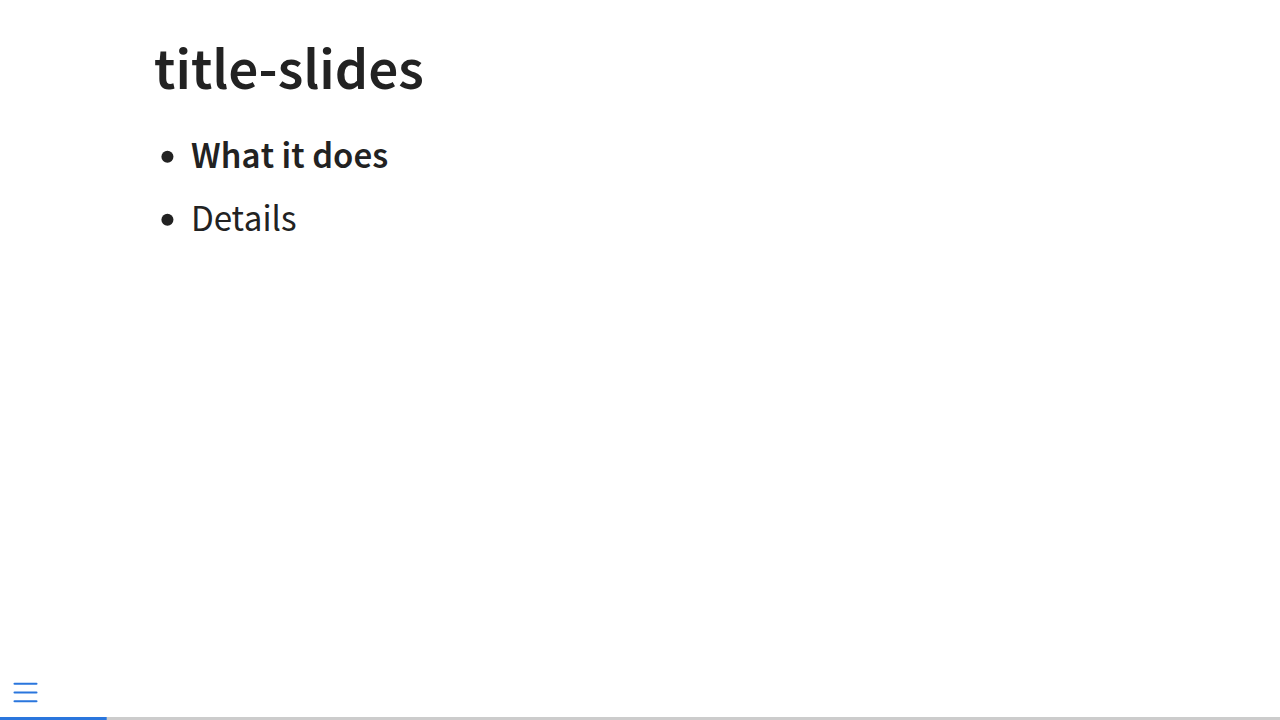
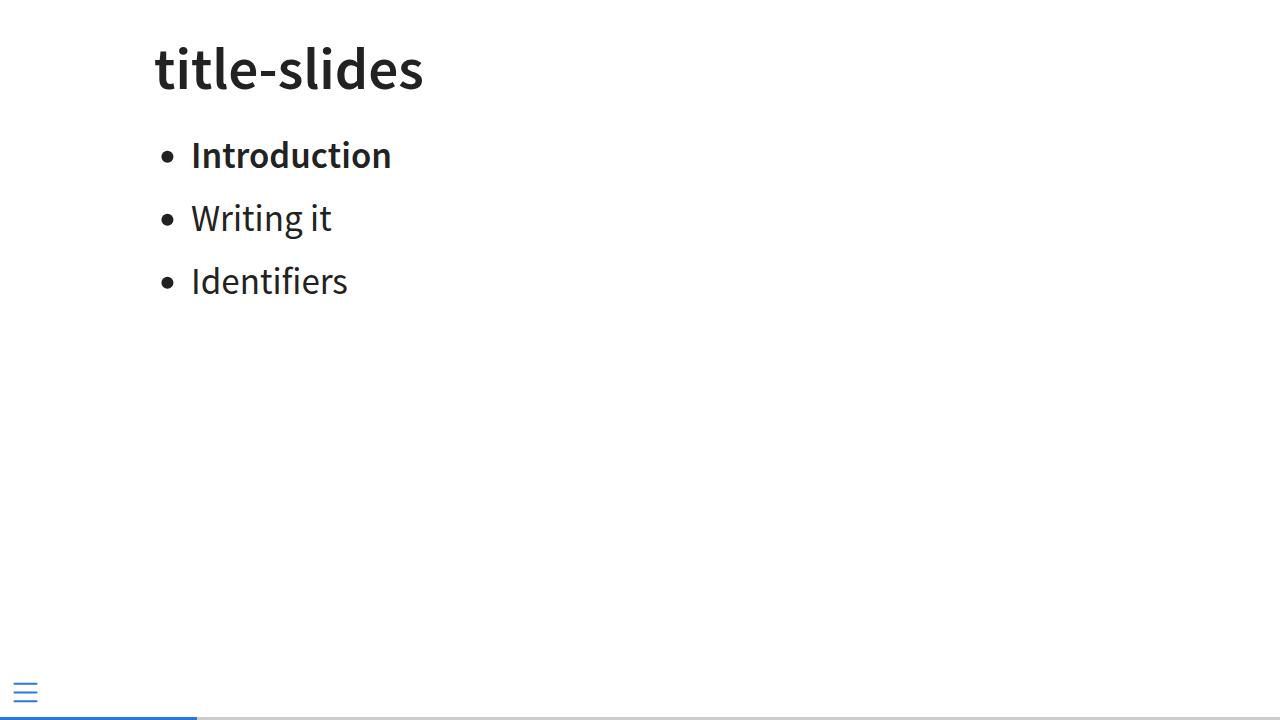
Document the ## index rule, reshoot the screenshots, bump to 0.5.0
The README's index section, worked example and rule now describe indexing the
headings that start slides, including the collapsing of repeated adjacent titles
and the reservation of # for the title slide. It says plainly that this doubles
the length of a deck, so slide-number: c/t totals move.

The troubleshooting entry that told people a deck of ## slides has no sections is
replaced by what 0.5 actually does, keeping the version check for anyone still on
an older install.

The vertical-stack caveat is rewritten rather than kept: with the index at the
same level as the slide it introduces, it now lands inside that slide's own stack
immediately before it, instead of at the end of the previous section's. Checked
against a rendered deck with # headings.

Screenshots regenerated from the example deck, which now shows three index slides
for its three ## headings and none for its two # ones.

diff --git a/README.md b/README.md
@@ -8,7 +8,7 @@ Two habits from beamer, brought to a Quarto deck:
 The two are independent — switch on either, or both.
 
 ```sh
-quarto add gortazar/title-slides@v0.4
+quarto add gortazar/title-slides@v0.5
 ```
 
 ## Carried titles
@@ -71,12 +71,11 @@ The same slide of the same deck with the extension switched off:
 
 ![The same slide, with no title at all](screenshots/without-title-slides.png)
 
-## An index before every section
+## An index before every slide
 
-`show-index: true` puts an index slide in front of each of the deck's sections — the
-`#` headings Quarto renders as section slides. Every index lists every section, and
-emboldens the one it introduces, so the audience always knows where the deck is and
-where it is going. This is beamer's `\AtBeginSection` habit.
+`show-index: true` puts an index slide in front of each of the deck's slides, listing the
+deck's `##` titles and emboldening the one it introduces, so the audience always knows
+where the deck is and where it is going. This is beamer's `\AtBeginSection` habit.
 
 ````markdown
 ---
@@ -87,24 +86,20 @@ filters:
 show-index: true
 ---
 
-# Beginnings
-
-## First slide
+## Beginnings
 
 ...
 
-# Middles
-
-## Second slide
+## Middles
 
 ...
 ````
 
-Before `# Beginnings` and again before `# Middles`, you get:
+Before `## Beginnings` and again before `## Middles`, you get:
 
-![An index slide with the first section in bold](screenshots/index-first-section.png)
+![An index slide with the first slide title in bold](screenshots/index-first-section.png)
 
-![The same index, with the next section in bold instead](screenshots/index-second-section.png)
+![The same index, with the next slide title in bold instead](screenshots/index-second-section.png)
 
 ## Usage
 
@@ -149,23 +144,35 @@ Attributes written on the original heading — `## Intro {.smaller background-co
 
 ## The index rule, exactly
 
-A **section** is a top-level heading *below* the slide level — `#` by default, which is
-what Quarto renders as a section slide. Before each one, the filter inserts a heading at
-the slide level followed by a bullet list of every section in the deck.
+**The index lists the headings that start slides** — `##` at Quarto's default slide level.
+Before each one, the filter inserts a heading at the slide level followed by a bullet list
+of the deck's titles.
 
-- **The heading** is the document's own `title:`, or `Outline` if it has none.
-- **Every section is listed**, in document order — not just the ones still to come — so
+- **`#` is reserved for the title slide.** A level-1 heading is never listed and never gets
+  an index slide in front of it, so a deck's title page and its `#` dividers are left
+  exactly as written.
+- **The heading** of the index is the document's own `title:`, or `Outline` if it has none.
+- **Every slide title is listed**, in document order — not just the ones still to come — so
   the same list appears each time with the emphasis in a different place.
-- **The entry for the section that follows** is wrapped in `Strong` *and* in a span with
-  the class `title-slides-index-current`, so it is emphasised in any renderer and can be
+- **Repeated adjacent titles are listed once.** A topic continued across three slides
+  under the same `##` gets one entry, emphasised for all three. A title that comes back
+  later in the deck is a separate entry, in its own place in the running order.
+- **The entry for the slide that follows** is wrapped in `Strong` *and* in a span with the
+  class `title-slides-index-current`, so it is emphasised in any renderer and can be
   restyled from CSS.
 - **Entries are plain text**, not links.
-- **Hidden sections are left out.** A `#` heading marked `.unlisted` or
-  `visibility="hidden"` is neither listed nor given an index slide of its own, so
-  `show-index` cannot leak the title of a slide you suppressed.
-- **Identifiers** follow the same scheme as continuations: `<section>-index-<n>`, skipping
+- **Hidden slides are left out.** A heading marked `.unlisted` or `visibility="hidden"` is
+  neither listed nor given an index slide of its own, so `show-index` cannot leak the title
+  of a slide you suppressed.
+- **Continuation slides get no index.** The headings this extension generates are not
+  listed, so using both features together does not put an index before every continuation.
+- **Identifiers** follow the same scheme as continuations: `<slide>-index-<n>`, skipping
   any name already used. Index headings are also `unlisted`, so repeating them never
   fills up a table of contents.
+
+**This doubles the length of a deck**, since every slide gains one in front of it, and
+anything counting slides moves with it — `slide-number: c/t` totals, and any link that
+names a slide by number.
 
 Style them with the two classes:
 
@@ -174,14 +181,13 @@ Style them with the two classes:
 .title-slides-index-current { color: #b5121b; }
 ```
 
-`slide-level` applies here too. The index heading is emitted at the slide level, and at
-`slide-level: 1` or `slide-level: 0` **no heading is below the slide level**, so the deck
-has no sections and `show-index` does nothing.
+`slide-level` applies here too, and the index follows it: at `slide-level: 1` the index
+lists `#` headings and its own heading is a `#`; at `slide-level: 3` it lists `###`. Only
+`slide-level: 0`, where no heading starts a slide at all, leaves it with nothing to list.
 
-**A deck with no sections gets no index and a warning saying so.** No agenda of the
-deck's `##` slides is invented in place of one: an index lists sections, and a deck
-without sections has nothing for it to list. What you get instead is an explanation, so
-that asking for an index and receiving none is never silent.
+**A deck with no slide-starting headings gets no index and a warning saying so** — none
+written, all of them hidden, or `slide-level: 0`. Nothing is invented in its place, so
+asking for an index and receiving none is never silent.
 
 ## Caveats
 
@@ -203,13 +209,10 @@ block, a callout, speaker notes or a block quote is an ordinary horizontal rule 
 left alone; only top-level rules start slides. Likewise, only a top-level `#` counts as
 a section: one nested inside a div is not indexed.
 
-**An index slide joins the preceding section's vertical stack.** Reveal groups the
-slide-level slides that follow a `#` into a vertical stack, and an index slide is a
-slide-level slide sitting just before the next `#`, so that is where it lands in the
-DOM — the first index, which precedes any `#`, is the exception. With Quarto's default
-`navigationMode: linear` this makes no difference to reading the deck: the index appears
-immediately before its section, in order. It does show up in the overview grid, where
-the index sits under the previous section's column rather than starting its own.
+**An index slide shares its slide's vertical stack.** Where a deck uses `#` headings,
+reveal groups the slides under each one into a vertical stack; an index slide sits in the
+same stack as the slide it introduces, immediately before it, which is where it belongs
+both on screen and in the overview grid.
 
 **Supported format: `revealjs`.** That is where `---` breaks and `##` titles behave as
 described.
@@ -243,7 +246,7 @@ If that says `No extensions are installed in this directory`, that is the whole 
 Install it there:
 
 ```sh
-quarto add gortazar/title-slides@v0.4
+quarto add gortazar/title-slides@v0.5
 ```
 
 You should end up with `_extensions/gortazar/title-slides/` **next to your document**, and
@@ -273,16 +276,18 @@ alone does nothing — add `title-slides: true`, `show-index: true`, or both.
 Since 0.4 the extension tells you why, in a warning naming the key:
 
 ```
-show-index is set, but no index slide was added: the deck has no section headings
-— an index goes before each `#` heading, and there are none.
+show-index is set, but no index slide was added: the deck has no `##` headings —
+an index lists the headings that start slides, and there are none.
 ```
 
-**A deck of only `##` slides has no sections, so there is nothing to index.** An index
-slide introduces a section, and sections are `#` headings. This is not a defect and the
-extension does not invent an agenda for such a deck: add `#` headings to group your
-slides, or drop the key. The warning also distinguishes the two other ways to get here —
-every `#` marked `.unlisted` or `visibility="hidden"`, and a `slide-level` of `1` or `0`,
-under which no heading level is below the slide level at all.
+**A deck with no `##` headings has nothing to index.** From 0.5 the index lists the
+headings that start slides, so a deck of `##` slides — the ordinary kind — is indexed, and
+what is left to warn about is a deck with no slide-starting headings at all: none written,
+every one marked `.unlisted` or `visibility="hidden"`, or `slide-level: 0`, under which no
+heading starts a slide. The warning says which of the three it is.
+
+Before 0.5 the index was keyed off `#` headings, so a deck of `##` slides got no index;
+if that is what you are seeing, update.
 
 If you get **no index and no warning either**, the extension that ran is not this version.
 Check which one is installed, from the directory holding the document:
@@ -291,9 +296,10 @@ Check which one is installed, from the directory holding the document:
 quarto list extensions
 ```
 
-`show-index` did not exist before 0.2, and the warning arrived in 0.4. An older install
-ignores the key in complete silence — which is exactly how this was first reported. Update
-with `quarto add gortazar/title-slides@v0.4`.
+`show-index` did not exist before 0.2, the warning arrived in 0.4, and 0.5 is what
+indexes `##` headings rather than `#`. An older install ignores the key in complete
+silence — which is exactly how this was first reported. Update with
+`quarto add gortazar/title-slides@v0.5`.
 
 Two more things worth knowing:
 
